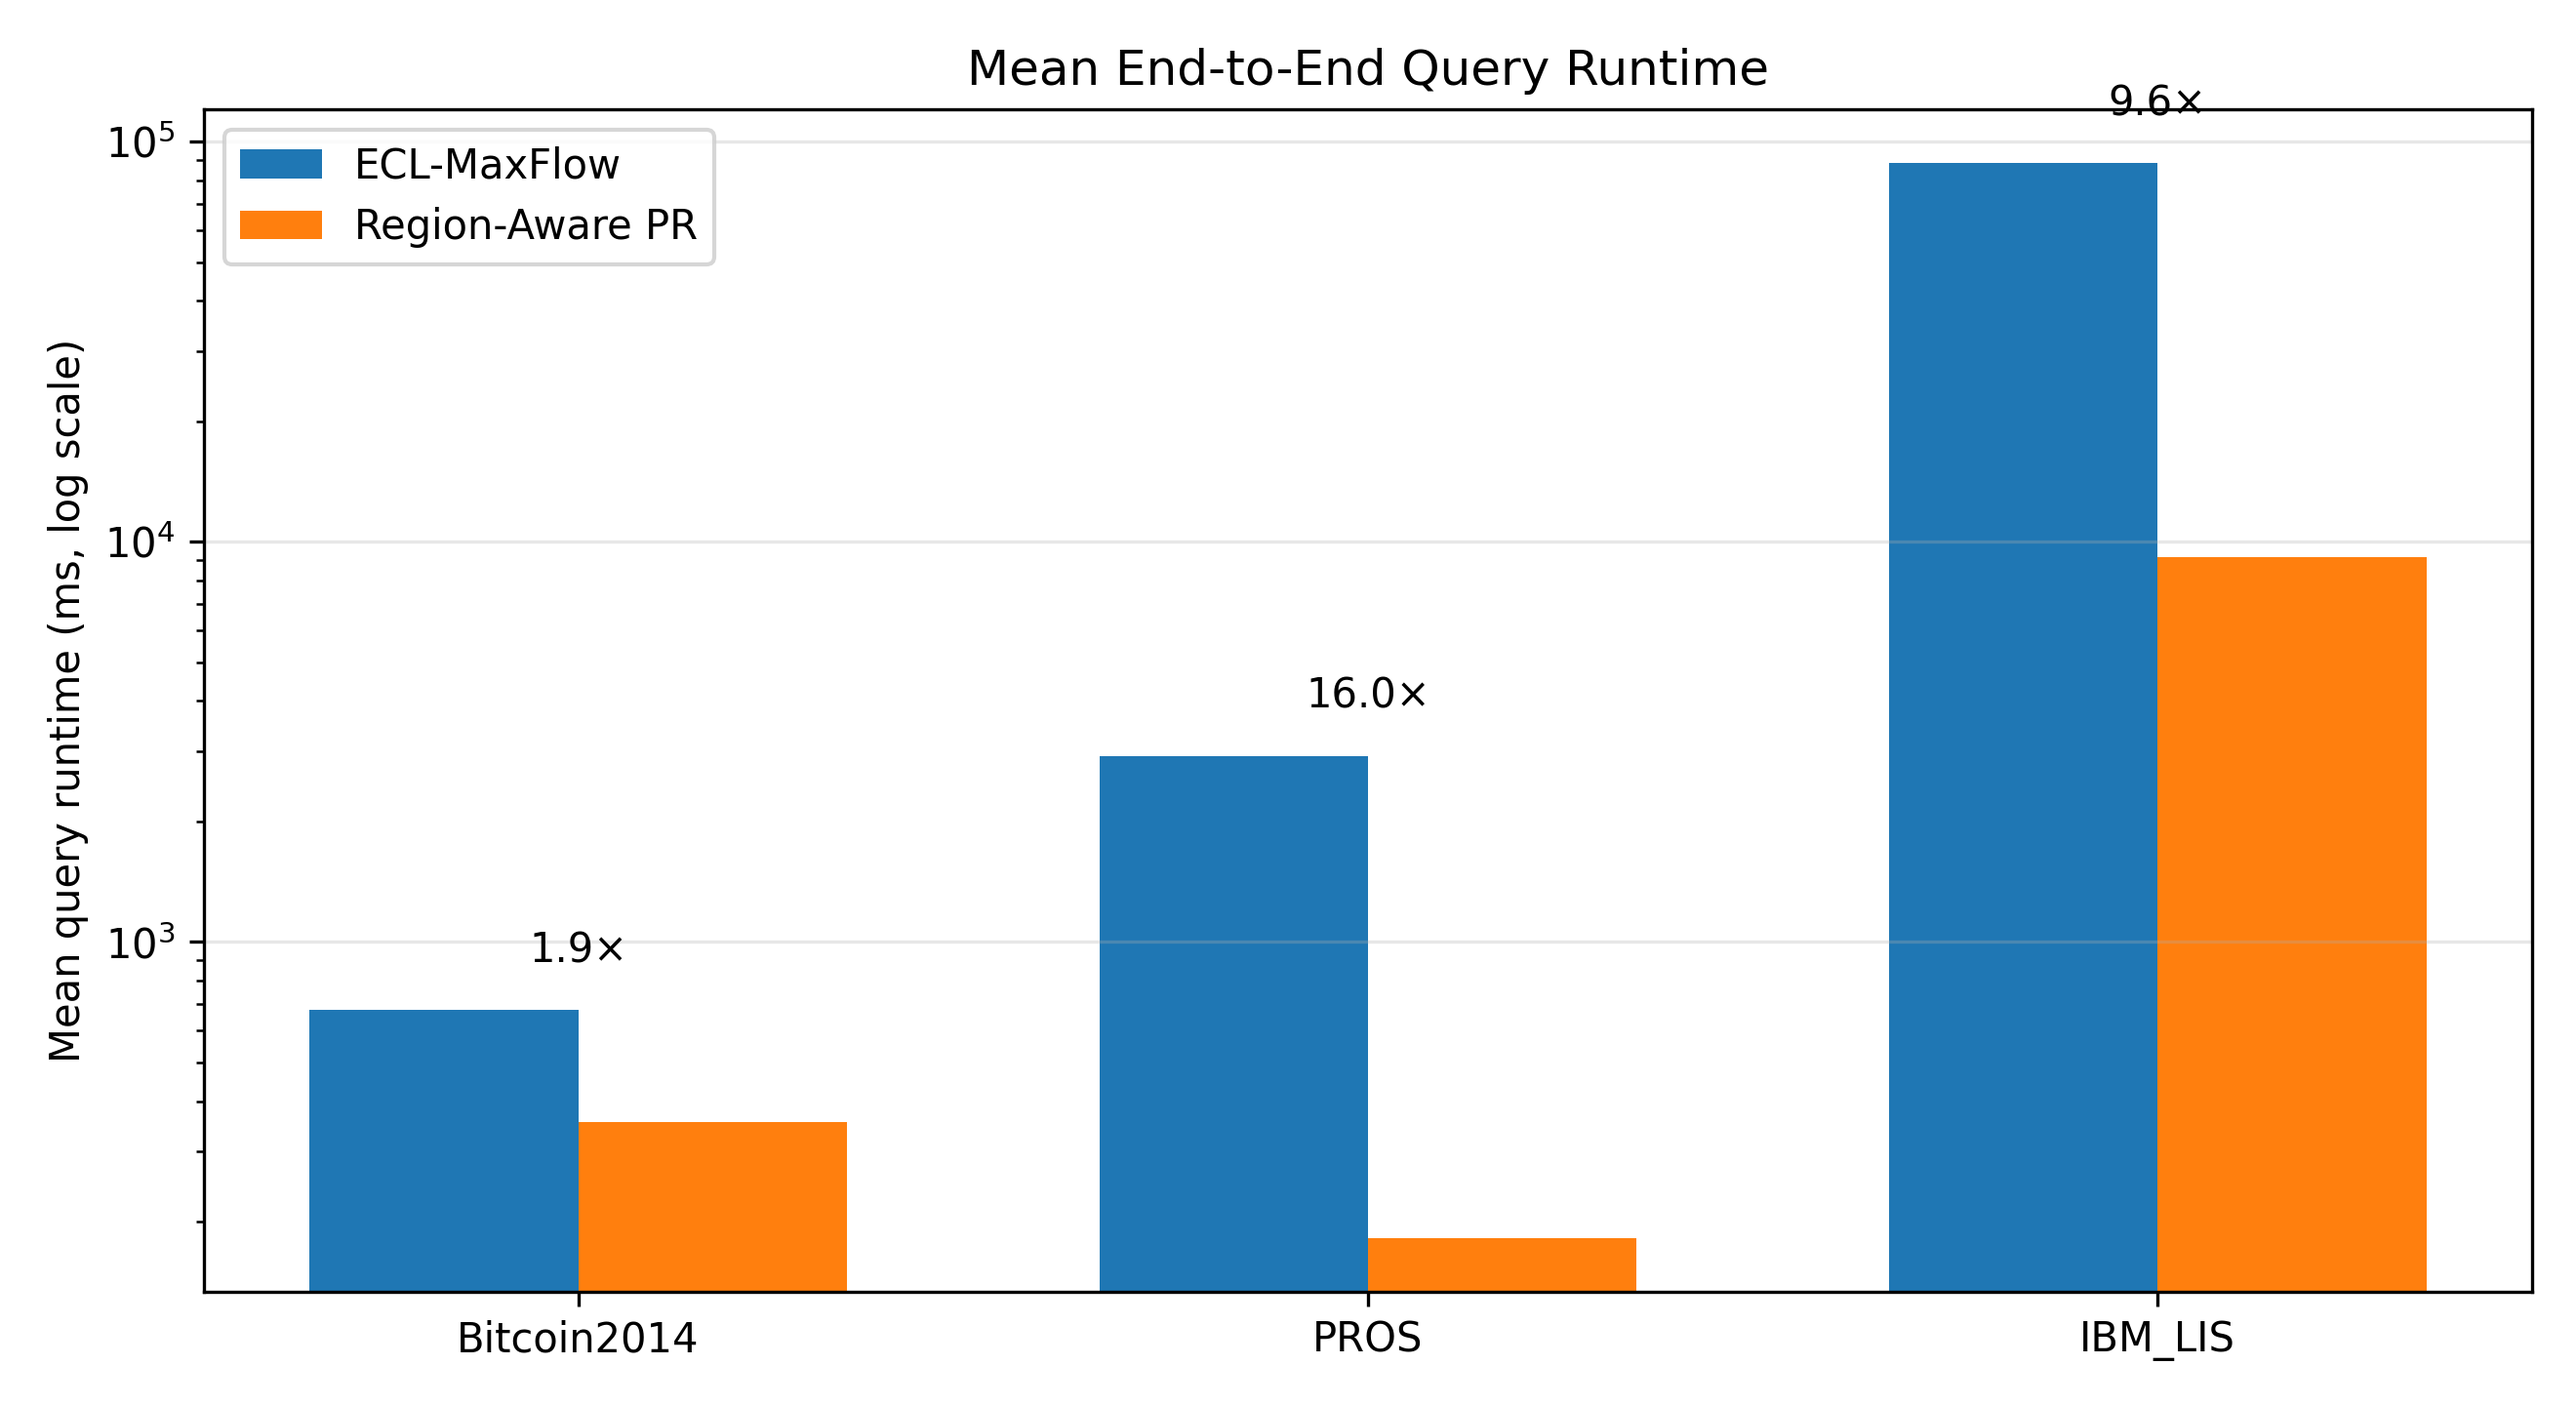
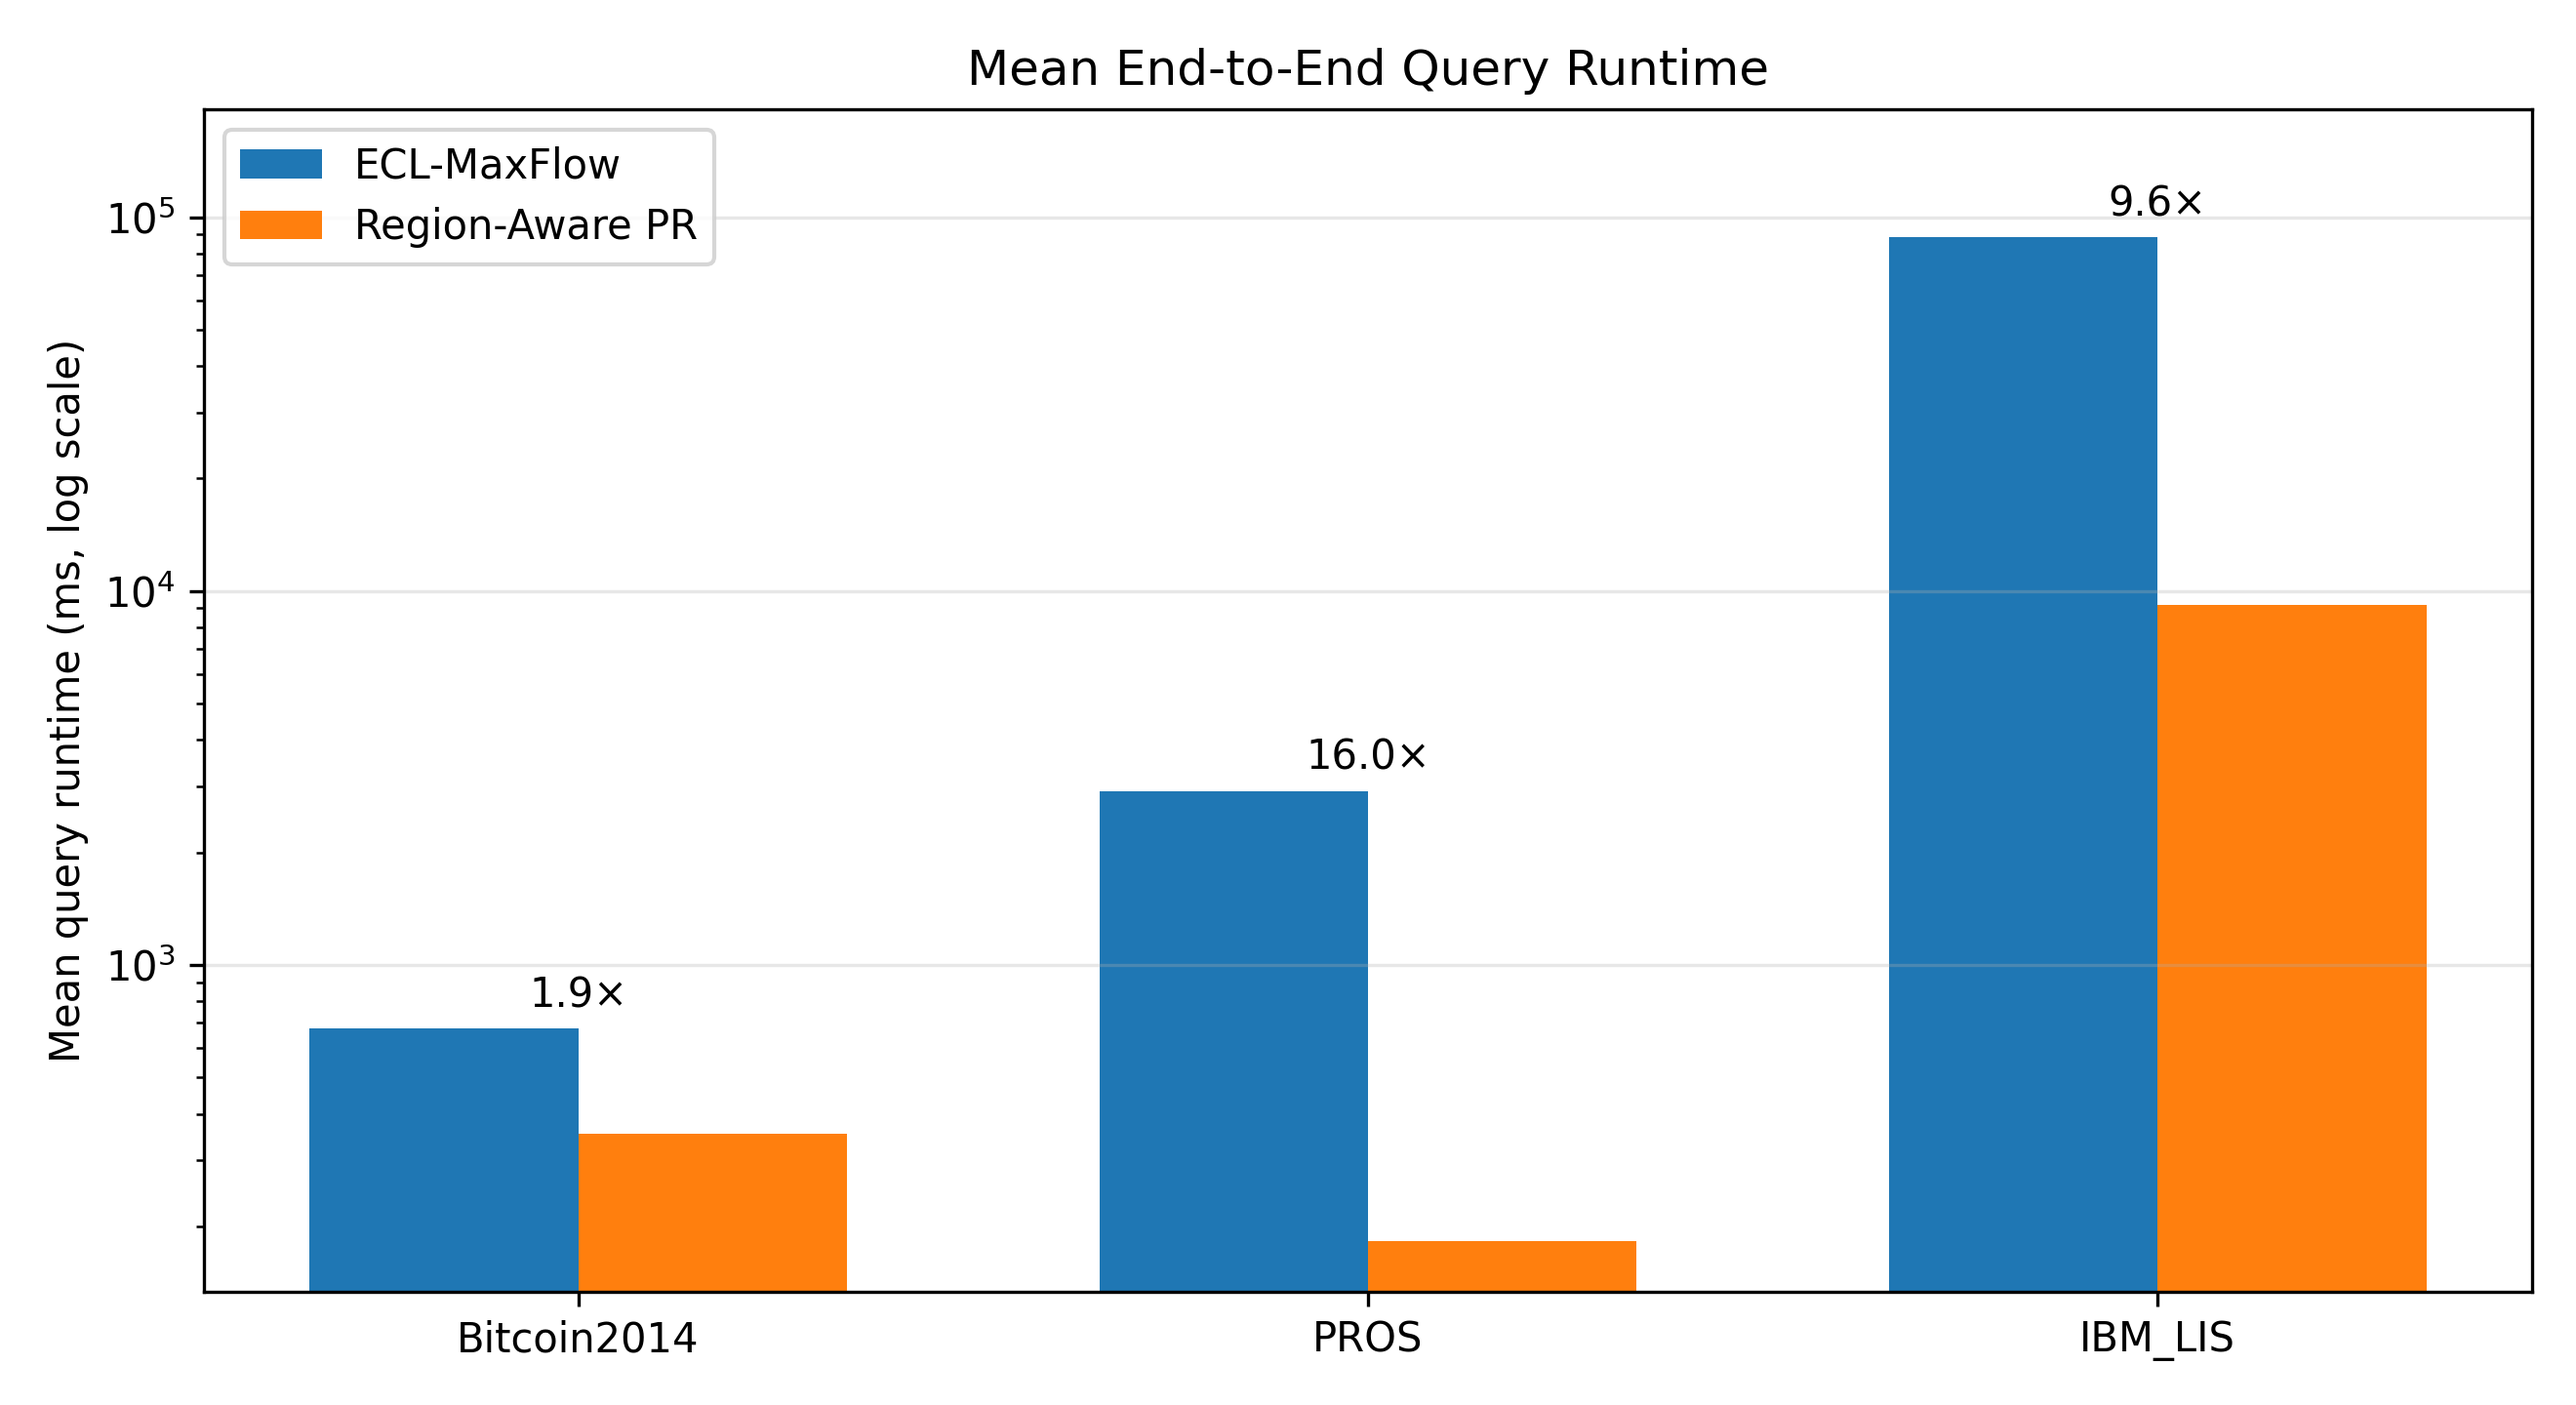
newest

diff --git a/COMPARISON/ECL_RA/plot_three_datasets_ecl_labels.py b/COMPARISON/ECL_RA/plot_three_datasets_ecl_labels.py
@@ -347,10 +347,13 @@ def plot_figures(total_common: pd.DataFrame, comp_common: pd.DataFrame) -> None:
     plt.legend()
     plt.grid(True, axis="y", alpha=0.3)
 
+    ymax = max(max(ecl_means), max(region_means))
+    plt.ylim(top=ymax * 2.2)
+
     for i, speedup in enumerate(speedups):
         plt.text(
             i,
-            max(ecl_means[i], region_means[i]) * 1.25,
+            max(ecl_means[i], region_means[i]) * 1.08,
             f"{speedup:.1f}×",
             ha="center",
             va="bottom",
